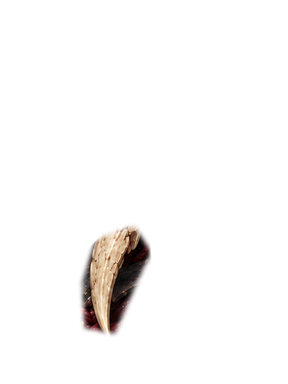
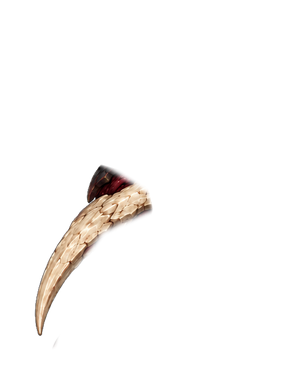
No stun rings; the Matriarch's scythes mirrored about her head
The daze mark is gone: nothing is drawn on the ground under a Marine, hull or mech
that can't act, neither the amber arc nor the landing dust ring (owner). A body
thrown and getting back up says what happened.

The plate's scythe pivots were set for its cocked head (54 px left, 193 px right
of centre); under the straight head they read off-balance. The left scythe is
now the right one mirrored about the centre line.

Changed region(s): [[0.0938, 0.4062, 0.5312, 0.875]]

diff --git a/art-source/rav-redesign/export_matriarch_rig.py b/art-source/rav-redesign/export_matriarch_rig.py
@@ -11,7 +11,7 @@ Writes mod/graphics/battle/rav-matriarch/*.png, every sprite head-up (forward is
                        and columns are the sprite's, times SCALE
   head.png, gape.png   the straight-ahead head and its roar, rows 0..HEAD_ROWS of the canvas, full width;
                        both pivot at the neck
-  scythe-l/r.png       each scythe cut from the hero and lengthened BLADE_SCALE about its PIVOT, on a canvas
+  scythe-l/r.png       the right scythe cut from the hero (the left is it mirrored) and lengthened BLADE_SCALE about its PIVOT, on a canvas
                        centred on the pivot (SCYTHE_HALF each way), so the sprite turns about its own centre
   foot-fl/fr/hl/hr.png each foot cut from the hero, centred on the foot
   shank-f/h-l/r.png    the leg layers, the hip end at the top, SHANK_W layer px wide
@@ -79,16 +79,17 @@ def main():
         assert bottom <= HEAD_ROWS, (out, bottom)
         scaled(lay.crop((0, 0, size[0], HEAD_ROWS))).save(OUT / out)
 
-    for side, m in blade_m.items():
-        px, py = PIVOT[side]
-        hx, hy = SCYTHE_HALF
-        pad = Image.new("RGBA", (size[0] + 2 * hx, size[1] + 2 * hy), (0, 0, 0, 0))
-        pad.alpha_composite(with_alpha(hero, ha * m), (hx, hy))
-        pad = scale_about(pad, BLADE_SCALE, (px + hx, py + hy))
-        cut = pad.crop((px, py, px + 2 * hx, py + 2 * hy))       # centred on the pivot
-        bbox = cut.getchannel("A").point(lambda v: 255 if v > 8 else 0).getbbox()
-        assert bbox[0] > 0 and bbox[1] > 0 and bbox[2] < 2 * hx and bbox[3] < 2 * hy, (side, bbox)
-        scaled(cut).save(OUT / f"scythe-{side.lower()}.png")
+    # the right scythe, cut from the hero; the left is it mirrored about the centre line (see PIVOT)
+    px, py = PIVOT["R"]
+    hx, hy = SCYTHE_HALF
+    pad = Image.new("RGBA", (size[0] + 2 * hx, size[1] + 2 * hy), (0, 0, 0, 0))
+    pad.alpha_composite(with_alpha(hero, ha * blade_m["R"]), (hx, hy))
+    pad = scale_about(pad, BLADE_SCALE, (px + hx, py + hy))
+    cut = pad.crop((px, py, px + 2 * hx, py + 2 * hy))       # centred on the pivot
+    bbox = cut.getchannel("A").point(lambda v: 255 if v > 8 else 0).getbbox()
+    assert bbox[0] > 0 and bbox[1] > 0 and bbox[2] < 2 * hx and bbox[3] < 2 * hy, bbox
+    scaled(cut).save(OUT / "scythe-r.png")
+    scaled(cut.transpose(Image.FLIP_LEFT_RIGHT)).save(OUT / "scythe-l.png")
 
     for n, (m, (cx, cy), (rx, ry)) in feet.items():
         r = int(max(rx, ry) + 16)   # past the soft edge; square and centred on the foot

diff --git a/art-source/rav-redesign/exploration/motion_matriarch.py b/art-source/rav-redesign/exploration/motion_matriarch.py
@@ -49,7 +49,9 @@ SCYTHE_POLY = {"R": [(690, 250), (790, 250), (860, 350), (912, 470), (908, 572),
                      (780, 370), (690, 330)],
                "L": [(410, 320), (495, 330), (492, 420), (445, 520), (405, 612), (352, 602), (348, 520),
                      (380, 420)]}
-PIVOT = {"R": (705, 300), "L": (458, 360)}
+# The plate's own left scythe sat 54 px left of centre and its right 193 px right, set for its cocked head;
+# under the straight head the left is the right one mirrored about the centre line (owner, 2026-10-21).
+PIVOT = {"R": (705, 300), "L": (1024 - 705, 300)}
 FEET = {"FL": ((185, 860), (80, 95)), "FR": ((850, 885), (78, 98)),
         "HL": ((255, 1255), (82, 95)), "HR": ((775, 1300), (88, 102))}
 NECK = (512, 470)
@@ -147,6 +149,7 @@ class Rig:
             self.head = placed("head-straight.png", STRAIGHT)
             self.gape = placed("head-straight-gape.png", STRAIGHT_GAPE)
         self.blades = {s: on_canvas(with_alpha(hero, ha * m)) for s, m in blade_m.items()}
+        self.blades["L"] = self.blades["R"].transpose(Image.FLIP_LEFT_RIGHT)
         if BLADE_SCALE != 1.0:
             self.blades = {s: scale_about(b, BLADE_SCALE, L(*PIVOT[s])) for s, b in self.blades.items()}
         self.feet = {}
@@ -258,7 +261,7 @@ class Clip:
                 th = t0 + S_WIND + 0.45 * S_LASH
                 f = int(round(th * FPS))
                 piv = PIVOT[side]
-                tip = (890, 550) if side == "R" else (372, 600)
+                tip = (890, 550) if side == "R" else (1024 - 890, 550)
                 vx, vy = tip[0] - piv[0], tip[1] - piv[1]
                 a = math.radians(130 if side == "R" else -130)
                 rx = vx * math.cos(a) + vy * math.sin(a)

diff --git a/src/main/java/com/dillon/starsectormarines/ops/battleview/RavMatriarchComposer.java b/src/main/java/com/dillon/starsectormarines/ops/battleview/RavMatriarchComposer.java
@@ -18,8 +18,8 @@ final class RavMatriarchComposer {
     /** Layer rows: the canvas centre, the neck pivot, and the head sprites' centre (they are rows 0..672). */
     private static final float CANVAS_CENTRE_ROW = 768f, NECK_ROW = 470f, HEAD_CENTRE_ROW = 336f;
     private static final float CENTRE_COL = 512f;
-    /** Each scythe's pivot, layer px, left then right; its sprite is centred on it. */
-    private static final float[][] PIVOT = {{458f, 360f}, {705f, 300f}};
+    /** Each scythe's pivot, layer px, left then right, mirrored about the centre line; its sprite is centred on it. */
+    private static final float[][] PIVOT = {{319f, 300f}, {705f, 300f}};
     /** Past this swing a scythe has crossed the crown's rim and is drawn over the head. */
     private static final float OVER_HEAD_DEGREES = 70f;
     /** The arm reaches forward this many times its outward reach as it swings. */

diff --git a/src/main/java/com/dillon/starsectormarines/ops/battleview/BattleRenderer.java b/src/main/java/com/dillon/starsectormarines/ops/battleview/BattleRenderer.java
@@ -324,8 +324,6 @@ public class BattleRenderer {
                 new UnitRenderService(sprites),
                 // Over the bodies, like the health bars: who the medic is and what they are doing.
                 new MedicMarkerRenderSystem(sprites),
-                // Over the bodies: who can't act this second, and why a Marine is lying down.
-                new DazeMarkRenderSystem(),
                 new SatchelRenderSystem(sprites),
                 new PointDefenseRenderSystem(),
                 new ShieldDomeRenderSystem(),

diff --git a/roadmap/battle-render/design/snapshot-suites.md b/roadmap/battle-render/design/snapshot-suites.md
@@ -71,7 +71,7 @@ by name.
 | `rav-brute-motion` | The Rav Brute's skeleton (`RavBruteRig`) stepped every tick and drawn through the production `RavBruteComposer` at 140 px per cell: walking into a trot, whole-body blows, and a charge (tell, gallop, stunned); then four Brutes killed mid-action and bursting (`RavBurst`) over the Runner's ichor; 1920x1080, 100% scale, a corpse sheet and GIFs | `build/snapshots/rav-brute-motion/` |
 | `swarm-strains-skirmish` | Runners, Brutes and Spitters against a held squad on a map one screen wide, so the whole-map recording is battle zoom at 1920x1080 (plus a 2x close recording and stills): the strain bodies' art review, walking, striking, lobbing, dying and lying as corpses | `build/snapshots/swarm-strains-skirmish/` |
 | `swarm-brute-breach` | A Brute against a held colony building: breaking in where no door is near, using a near door, sparing fortified walls, going for an emplacement first | `build/snapshots/swarm-brute-breach/` |
-| `brute-charge` | A Brute charging one kind of target per loop: the ground tell, infantry thrown and knocked down, a light wall rammed, a heavy wall and a tank stunning it, hulls shoved or stalled, mechs struck in the legs, the daze mark | `build/snapshots/brute-charge/` |
+| `brute-charge` | A Brute charging one kind of target per loop: the ground tell, infantry thrown and knocked down, a light wall rammed, a heavy wall and a tank stunning it, hulls shoved or stalled, mechs struck in the legs | `build/snapshots/brute-charge/` |
 | `matriarch` | The Matriarch per loop: reaping a knot of marines, the crown against a Bulwark lance, breaking into a fort building; each loop also as `<loop>-close`, a 1920x1080 view following it | `build/snapshots/matriarch/` |
 | `swarm-bore-collapse` | A satchel squad ordered onto a swarm bore: it closes through the bore's spore colony, sets charges on the body and collapses it; the rifles-only control only shoots. 1920x1080, verdicts are `sceneEvidence`'s | `build/snapshots/swarm-bore-collapse/` |
 | `swarm-spore-colonies` | A bore's spore colonies firing on an orbiting craft: a fissure colony on a light craft in and out of its reach, a bore fed to maw with a colony of each grade on a dropship, colonies killed one by one while the bore stands, and the bore collapsed with its colonies withering. 1920x1080, verdicts are `sceneEvidence`'s | `build/snapshots/swarm-spore-colonies/` |

diff --git a/roadmap/colony-breach/design/colony-breach-nouns.md b/roadmap/colony-breach/design/colony-breach-nouns.md
@@ -654,15 +654,14 @@ for one job in the cycle, and reads that way on screen.
   cooldown, tell, masses, every hold time) are starting values in
   `BruteChargeRules`, to be felt out in play rather than settled on paper.
 
-  A second of not being able to act confuses unless the player sees why, so
-  the charge is shown four ways, all presentation over the rule: a faint amber
-  wedge along the line during the tell, with the other threat warnings; a
-  knocked-down body's picture lying as a fallen one does for that second,
-  with a ring of dust where it lands, while the sim keeps it upright; a quiet
-  amber arc on the ground under a Marine or hull that can't act, whatever made
-  it so, emptying as the hold runs out (a staggered mech shows only in its
-  stilled hips); and the squad card's status word naming the cause (knocked down, stalled,
-  staggered, stunned) ahead of engaged or wounded.
+  The charge is shown three ways, all presentation over the rule: a faint
+  amber wedge along the line during the tell, with the other threat warnings;
+  a knocked-down body's picture lying as a fallen one does for that second
+  while the sim keeps it upright; and the squad card's status word naming the
+  cause (knocked down, stalled, staggered, stunned) ahead of engaged or
+  wounded. Nothing is drawn on the ground under a body that can't act, no ring
+  or arc on a Marine, a hull or a mech (owner, 2026-10-21): a body thrown and
+  getting back up says what happened.
 
   Like the Runner it is drawn on its own skeleton (`RavBruteRig`): a plum,
   plated rhino-ram with a mace head on four boar's legs, the hooves under the
